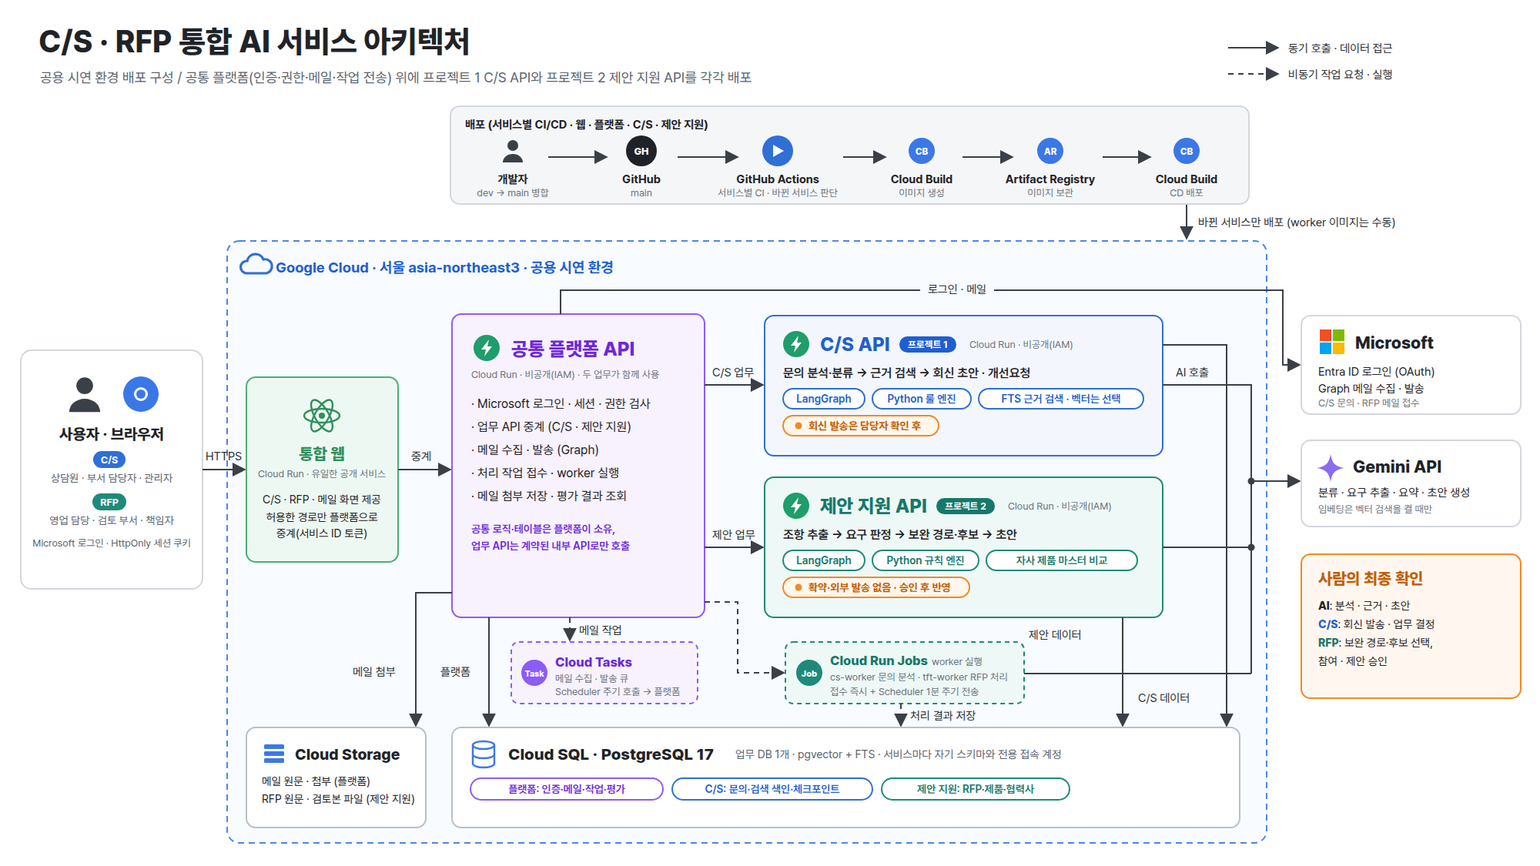
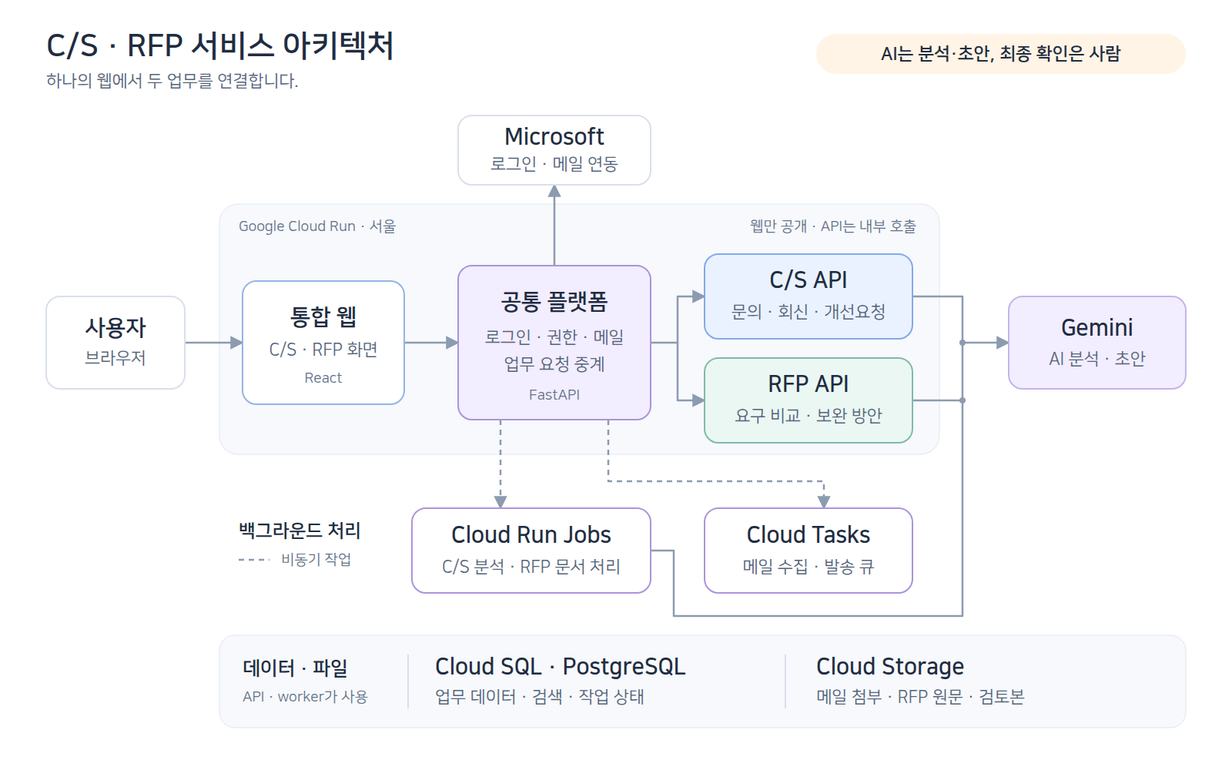
[KAN-258] 아키텍처 그림을 핵심 서비스 흐름 중심으로 간소화

diff --git a/docs/assets/readme/architecture.html b/docs/assets/readme/architecture.html
@@ -2,275 +2,102 @@
 <html lang="ko">
 <head>
 <meta charset="utf-8">
-<title>서비스 아키텍처</title>
-<!-- README의 architecture.png 원본. 고친 뒤 Playwright로 2000×1125 화면을 찍어 PNG를 다시 만든다. -->
-<link rel="stylesheet" href="https://cdn.jsdelivr.net/gh/orioncactus/pretendard@v1.3.9/dist/web/variable/pretendardvariable.min.css">
+<title>C/S · RFP 서비스 아키텍처</title>
+<!-- README용 PNG 원본. 브라우저에서 1600×1000, 배율 1로 캡처한다. 외부 폰트·리소스 없이 렌더링한다. -->
 <style>
-  html, body { margin: 0; background: #fff; }
-  svg { display: block; font-family: "Pretendard Variable", Pretendard, "Noto Sans KR", "Apple SD Gothic Neo", sans-serif; }
-  .t { fill: #1f2328; }
-  .m { fill: #5b6470; }
-  .s { fill: #6b7380; font-size: 13px; }
-  .lbl { fill: #2b3036; font-size: 15px; }
-  .edge { stroke: #3b4048; stroke-width: 2; fill: none; }
-  .dash { stroke-dasharray: 7 6; }
-  .chip { fill: #fff; stroke-width: 2; }
-  .chiptext { font-size: 14px; font-weight: 600; text-anchor: middle; }
+  html, body { margin: 0; width: 1600px; height: 1000px; background: #fff; }
+  svg { display: block; font-family: "NanumSquare", "Noto Sans KR", sans-serif; }
+  text { fill: #202c40; }
+  .heading { font-size: 29px; font-weight: 800; }
+  .detail { font-size: 22px; fill: #54647a; }
+  .small { font-size: 19px; fill: #627188; }
+  .edge { fill: none; stroke: #8c9bb0; stroke-width: 2.5; stroke-linejoin: round; }
+  .async { stroke-dasharray: 7 6; }
 </style>
 </head>
 <body>
-<svg width="2000" height="1125" viewBox="0 0 2000 1125" xmlns="http://www.w3.org/2000/svg">
+<svg width="1600" height="1000" viewBox="0 0 1600 1000" xmlns="http://www.w3.org/2000/svg" role="img" aria-labelledby="title description">
+  <title id="title">C/S · RFP 서비스 아키텍처</title>
+  <desc id="description">사용자는 공개된 통합 웹을 통해 공통 플랫폼에 접근한다. 플랫폼은 로그인과 메일을 담당하고 C/S와 RFP API로 요청을 중계한다. 긴 작업은 Cloud Run Jobs에서 처리한다. 업무 API와 worker는 Gemini를 호출하며, API와 worker는 데이터와 파일 저장소를 사용한다. AI가 준비한 결과는 사람이 최종 확인한다.</desc>
   <defs>
-    <marker id="a" viewBox="0 0 10 10" refX="9" refY="5" markerWidth="9" markerHeight="9" orient="auto-start-reverse">
-      <path d="M0 0 L10 5 L0 10 z" fill="#3b4048"/>
-    </marker>
-    <g id="run">
-      <circle r="17" fill="#1f9d6b"/>
-      <path d="M3 -11 L-7 2 L-1 2 L-3 11 L7 -2 L1 -2 Z" fill="#fff"/>
-    </g>
-    <g id="person">
-      <circle cy="-9" r="7" fill="#3b4048"/>
-      <path d="M-13 13 a13 11 0 0 1 26 0 z" fill="#3b4048"/>
-    </g>
+    <marker id="arrow" viewBox="0 0 10 10" refX="9" refY="5" markerWidth="7" markerHeight="7" orient="auto-start-reverse"><path d="M0 0 L10 5 L0 10 Z" fill="#8c9bb0"/></marker>
   </defs>
 
-  <!-- 제목 -->
-  <text x="50" y="68" class="t" font-size="40" font-weight="800">C/S · RFP 통합 AI 서비스 아키텍처</text>
-  <text x="52" y="107" class="m" font-size="18">공용 시연 환경 배포 구성 / 공통 플랫폼(인증·권한·메일·작업 전송) 위에 프로젝트 1 C/S API와 프로젝트 2 제안 지원 API를 각각 배포</text>
+  <text x="60" y="72" font-size="40" font-weight="800">C/S · RFP 서비스 아키텍처</text>
+  <text x="60" y="112" class="detail">하나의 웹에서 두 업무를 연결합니다.</text>
+  <rect x="1060" y="44" width="480" height="52" rx="26" fill="#fff4e5"/>
+  <text x="1300" y="77" text-anchor="middle" font-size="23" font-weight="700" fill="#9b5a12">AI는 분석·초안, 최종 확인은 사람</text>
 
-  <!-- 범례 -->
-  <line x1="1595" y1="62" x2="1660" y2="62" class="edge" marker-end="url(#a)"/>
-  <text x="1673" y="68" class="lbl">동기 호출 · 데이터 접근</text>
-  <line x1="1595" y1="96" x2="1660" y2="96" class="edge dash" marker-end="url(#a)"/>
-  <text x="1673" y="102" class="lbl">비동기 작업 요청 · 실행</text>
+  <!-- 서비스 경계: 통합 웹만 공개, 세 API는 내부 호출 -->
+  <rect x="285" y="265" width="935" height="325" rx="24" fill="#f7f9fc" stroke="#e0e6ef"/>
+  <text x="310" y="300" class="small">Google Cloud Run · 서울</text>
+  <text x="1190" y="300" text-anchor="end" class="small">웹만 공개 · API는 내부 호출</text>
 
-  <!-- CI/CD -->
-  <rect x="585" y="138" width="1037" height="127" rx="12" fill="#f5f6f8" stroke="#d3d7dd" stroke-width="2"/>
-  <text x="604" y="167" font-size="15" font-weight="700" class="t">배포 (서비스별 CI/CD · 웹 · 플랫폼 · C/S · 제안 지원)</text>
-  <g transform="translate(666,198)"><use href="#person"/></g>
-  <text x="666" y="238" text-anchor="middle" font-size="15" font-weight="700" class="t">개발자</text>
-  <text x="666" y="255" text-anchor="middle" class="s">dev → main 병합</text>
-  <line x1="712" y1="204" x2="788" y2="204" class="edge" marker-end="url(#a)"/>
-  <g transform="translate(833,196)"><circle r="20" fill="#1f2328"/><text y="5" text-anchor="middle" font-size="13" font-weight="800" fill="#fff">GH</text></g>
-  <text x="833" y="238" text-anchor="middle" font-size="15" font-weight="700" class="t">GitHub</text>
-  <text x="833" y="255" text-anchor="middle" class="s">main</text>
-  <line x1="880" y1="204" x2="958" y2="204" class="edge" marker-end="url(#a)"/>
-  <g transform="translate(1010,196)"><circle r="20" fill="#2f6fd6"/><path d="M-6 -8 L8 0 L-6 8 Z" fill="#fff"/></g>
-  <text x="1010" y="238" text-anchor="middle" font-size="15" font-weight="700" class="t">GitHub Actions</text>
-  <text x="1010" y="255" text-anchor="middle" class="s">서비스별 CI · 바뀐 서비스 판단</text>
-  <line x1="1095" y1="204" x2="1150" y2="204" class="edge" marker-end="url(#a)"/>
-  <g transform="translate(1197,196)"><circle r="17" fill="#3b78e7"/><text y="5" text-anchor="middle" font-size="12" font-weight="800" fill="#fff">CB</text></g>
-  <text x="1197" y="238" text-anchor="middle" font-size="15" font-weight="700" class="t">Cloud Build</text>
-  <text x="1197" y="255" text-anchor="middle" class="s">이미지 생성</text>
-  <line x1="1250" y1="204" x2="1315" y2="204" class="edge" marker-end="url(#a)"/>
-  <g transform="translate(1364,196)"><circle r="17" fill="#3b78e7"/><text y="5" text-anchor="middle" font-size="12" font-weight="800" fill="#fff">AR</text></g>
-  <text x="1364" y="238" text-anchor="middle" font-size="15" font-weight="700" class="t">Artifact Registry</text>
-  <text x="1364" y="255" text-anchor="middle" class="s">이미지 보관</text>
-  <line x1="1432" y1="204" x2="1494" y2="204" class="edge" marker-end="url(#a)"/>
-  <g transform="translate(1541,196)"><circle r="17" fill="#3b78e7"/><text y="5" text-anchor="middle" font-size="12" font-weight="800" fill="#fff">CB</text></g>
-  <text x="1541" y="238" text-anchor="middle" font-size="15" font-weight="700" class="t">Cloud Build</text>
-  <text x="1541" y="255" text-anchor="middle" class="s">CD 배포</text>
-  <line x1="1541" y1="266" x2="1541" y2="310" class="edge" marker-end="url(#a)"/>
-  <text x="1556" y="294" class="lbl">바뀐 서비스만 배포 (worker 이미지는 수동)</text>
+  <!-- 연결선을 먼저 그려 상자와 글자 위로 지나가지 않도록 한다. -->
+  <path d="M240 445 H315" class="edge" marker-end="url(#arrow)"/>
+  <path d="M525 445 H595" class="edge" marker-end="url(#arrow)"/>
+  <path d="M845 445 H880 V385 H915" class="edge" marker-end="url(#arrow)"/>
+  <path d="M880 445 V520 H915" class="edge" marker-end="url(#arrow)"/>
+  <path d="M720 345 V240" class="edge" marker-end="url(#arrow)"/>
+  <path d="M650 545 V660" class="edge async" marker-end="url(#arrow)"/>
+  <path d="M790 545 V625 H1070 V660" class="edge async" marker-end="url(#arrow)"/>
+  <path d="M1185 385 H1250 V445 H1310" class="edge" marker-end="url(#arrow)"/>
+  <path d="M1185 520 H1250 V445" class="edge"/>
+  <path d="M845 715 H875 V800 H1250 V520" class="edge"/>
+  <circle cx="1250" cy="445" r="4" fill="#8c9bb0"/>
+  <circle cx="1250" cy="520" r="4" fill="#8c9bb0"/>
 
-  <!-- Google Cloud 영역 -->
-  <rect x="295" y="313" width="1350" height="782" rx="16" fill="#f8fbff" stroke="#4a86e8" stroke-width="2" stroke-dasharray="8 6"/>
-  <g transform="translate(332,347)">
-    <path d="M-12 8 a8 8 0 0 1 1 -16 a11 11 0 0 1 21 -2 a8 8 0 0 1 4 18 z" fill="none" stroke="#2f6fd6" stroke-width="3.2"/>
-  </g>
-  <text x="358" y="354" font-size="19" font-weight="700" fill="#1f5fcf">Google Cloud · 서울 asia-northeast3 · 공용 시연 환경</text>
+  <rect x="60" y="385" width="180" height="120" rx="18" fill="#fff" stroke="#d9e0ea" stroke-width="2"/>
+  <text x="150" y="435" text-anchor="middle" class="heading">사용자</text>
+  <text x="150" y="472" text-anchor="middle" class="detail">브라우저</text>
 
-  <!-- 사용자 -->
-  <rect x="27" y="455" width="236" height="310" rx="14" fill="#fff" stroke="#d3d7dd" stroke-width="2"/>
-  <g transform="translate(110,515) scale(1.55)"><use href="#person"/></g>
-  <g transform="translate(183,512)"><circle r="23" fill="#3b78e7"/><circle r="9" fill="#fff"/><circle r="6" fill="#3b78e7"/></g>
-  <text x="145" y="571" text-anchor="middle" font-size="20" font-weight="800" class="t">사용자 · 브라우저</text>
-  <rect x="121" y="586" width="42" height="22" rx="11" fill="#2f6fd6"/>
-  <text x="142" y="602" text-anchor="middle" font-size="13" font-weight="700" fill="#fff">C/S</text>
-  <text x="145" y="626" text-anchor="middle" font-size="14" class="m">상담원 · 부서 담당자 · 관리자</text>
-  <rect x="120" y="641" width="44" height="22" rx="11" fill="#1f8a7a"/>
-  <text x="142" y="657" text-anchor="middle" font-size="13" font-weight="700" fill="#fff">RFP</text>
-  <text x="145" y="681" text-anchor="middle" font-size="14" class="m">영업 담당 · 검토 부서 · 책임자</text>
-  <text x="145" y="710" text-anchor="middle" font-size="13" class="m">Microsoft 로그인 · HttpOnly 세션 쿠키</text>
+  <rect x="315" y="365" width="210" height="160" rx="18" fill="#fff" stroke="#95b4e6" stroke-width="2"/>
+  <text x="420" y="421" text-anchor="middle" class="heading">통합 웹</text>
+  <text x="420" y="461" text-anchor="middle" class="detail">C/S · RFP 화면</text>
+  <text x="420" y="497" text-anchor="middle" class="small">React</text>
 
-  <line x1="263" y1="610" x2="318" y2="610" class="edge" marker-end="url(#a)"/>
-  <text x="267" y="598" class="lbl" font-size="14">HTTPS</text>
+  <rect x="595" y="345" width="250" height="200" rx="18" fill="#f2edff" stroke="#ab94db" stroke-width="2"/>
+  <text x="720" y="401" text-anchor="middle" class="heading">공통 플랫폼</text>
+  <text x="720" y="445" text-anchor="middle" class="detail">로그인 · 권한 · 메일</text>
+  <text x="720" y="480" text-anchor="middle" class="detail">업무 요청 중계</text>
+  <text x="720" y="519" text-anchor="middle" class="small">FastAPI</text>
 
-  <!-- 통합 웹 -->
-  <rect x="320" y="490" width="197" height="240" rx="12" fill="#eef8f2" stroke="#4caf73" stroke-width="2"/>
-  <g transform="translate(418,540)" fill="none" stroke="#2f8f5b" stroke-width="2.4">
-    <ellipse rx="23" ry="9"/><ellipse rx="23" ry="9" transform="rotate(60)"/><ellipse rx="23" ry="9" transform="rotate(120)"/>
-    <circle r="4" fill="#2f8f5b" stroke="none"/>
-  </g>
-  <text x="418" y="597" text-anchor="middle" font-size="21" font-weight="800" fill="#2f8f5b">통합 웹</text>
-  <text x="418" y="620" text-anchor="middle" class="s">Cloud Run · 유일한 공개 서비스</text>
-  <text x="418" y="654" text-anchor="middle" font-size="14.5" class="t">C/S · RFP · 메일 화면 제공</text>
-  <text x="418" y="677" text-anchor="middle" font-size="14.5" class="t">허용한 경로만 플랫폼으로</text>
-  <text x="418" y="698" text-anchor="middle" font-size="14.5" class="t">중계(서비스 ID 토큰)</text>
+  <rect x="915" y="330" width="270" height="110" rx="18" fill="#eaf2ff" stroke="#83a9e9" stroke-width="2"/>
+  <text x="1050" y="373" text-anchor="middle" class="heading">C/S API</text>
+  <text x="1050" y="412" text-anchor="middle" class="detail">문의 · 회신 · 개선요청</text>
+  <rect x="915" y="465" width="270" height="110" rx="18" fill="#eaf7f3" stroke="#81b9aa" stroke-width="2"/>
+  <text x="1050" y="508" text-anchor="middle" class="heading">RFP API</text>
+  <text x="1050" y="547" text-anchor="middle" class="detail">요구 비교 · 보완 방안</text>
 
-  <line x1="517" y1="610" x2="585" y2="610" class="edge" marker-end="url(#a)"/>
-  <text x="534" y="598" class="lbl">중계</text>
+  <!-- 외부 연동은 서비스당 역할 한 줄로 요약 -->
+  <rect x="595" y="150" width="250" height="90" rx="18" fill="#fff" stroke="#d9e0ea" stroke-width="2"/>
+  <text x="720" y="187" text-anchor="middle" class="heading">Microsoft</text>
+  <text x="720" y="220" text-anchor="middle" class="detail">로그인 · 메일 연동</text>
+  <rect x="1310" y="385" width="230" height="120" rx="18" fill="#f2edff" stroke="#c5b4e9" stroke-width="2"/>
+  <text x="1425" y="435" text-anchor="middle" class="heading">Gemini</text>
+  <text x="1425" y="473" text-anchor="middle" class="detail">AI 분석 · 초안</text>
 
-  <!-- 공통 플랫폼 API -->
-  <rect x="587" y="408" width="328" height="394" rx="12" fill="#f7f2fd" stroke="#8b5cf6" stroke-width="2"/>
-  <g transform="translate(632,452)"><use href="#run"/></g>
-  <text x="664" y="462" font-size="25" font-weight="800" fill="#6d28d9">공통 플랫폼 API</text>
-  <text x="612" y="491" class="s" font-size="14">Cloud Run · 비공개(IAM) · 두 업무가 함께 사용</text>
-  <g font-size="16" class="t">
-    <text x="612" y="530">· Microsoft 로그인 · 세션 · 권한 검사</text>
-    <text x="612" y="560">· 업무 API 중계 (C/S · 제안 지원)</text>
-    <text x="612" y="590">· 메일 수집 · 발송 (Graph)</text>
-    <text x="612" y="620">· 처리 작업 접수 · worker 실행</text>
-    <text x="612" y="650">· 메일 첨부 저장 · 평가 결과 조회</text>
-  </g>
-  <text x="612" y="692" font-size="14" font-weight="600" fill="#6d28d9">공통 로직·테이블은 플랫폼이 소유,</text>
-  <text x="612" y="714" font-size="14" font-weight="600" fill="#6d28d9">업무 API는 계약된 내부 API로만 호출</text>
+  <!-- 백그라운드 처리: 업무 분석과 메일 큐를 구분 -->
+  <text x="310" y="697" font-size="24" font-weight="700">백그라운드 처리</text>
+  <line x1="310" y1="727" x2="350" y2="727" class="edge async"/>
+  <text x="365" y="733" class="small">비동기 작업</text>
+  <rect x="535" y="660" width="310" height="110" rx="18" fill="#fff" stroke="#ab94db" stroke-width="2"/>
+  <text x="690" y="704" text-anchor="middle" class="heading">Cloud Run Jobs</text>
+  <text x="690" y="743" text-anchor="middle" class="detail">C/S 분석 · RFP 문서 처리</text>
+  <rect x="915" y="660" width="270" height="110" rx="18" fill="#fff" stroke="#ab94db" stroke-width="2"/>
+  <text x="1050" y="704" text-anchor="middle" class="heading">Cloud Tasks</text>
+  <text x="1050" y="743" text-anchor="middle" class="detail">메일 수집 · 발송 큐</text>
 
-  <!-- 플랫폼 → 업무 API -->
-  <line x1="915" y1="500" x2="991" y2="500" class="edge" marker-end="url(#a)"/>
-  <text x="925" y="489" class="lbl">C/S 업무</text>
-  <line x1="915" y1="711" x2="991" y2="711" class="edge" marker-end="url(#a)"/>
-  <text x="925" y="700" class="lbl">제안 업무</text>
-
-  <!-- 로그인 · 메일 (플랫폼 → Microsoft) -->
-  <polyline points="728,408 728,377 1666,377 1666,474 1688,474" class="edge" marker-end="url(#a)"/>
-  <rect x="1195" y="363" width="96" height="24" fill="#f8fbff"/>
-  <text x="1243" y="381" text-anchor="middle" class="lbl">로그인 · 메일</text>
-
-  <!-- C/S API -->
-  <rect x="993" y="410" width="517" height="182" rx="12" fill="#f3f7fd" stroke="#2f6fd6" stroke-width="2"/>
-  <g transform="translate(1034,447)"><use href="#run"/></g>
-  <text x="1065" y="456" font-size="25" font-weight="800" fill="#1f5fcf">C/S API</text>
-  <rect x="1168" y="437" width="74" height="21" rx="10.5" fill="#1f5fcf"/>
-  <text x="1205" y="452" text-anchor="middle" font-size="12.5" font-weight="700" fill="#fff">프로젝트 1</text>
-  <text x="1259" y="452" class="s" font-size="14">Cloud Run · 비공개(IAM)</text>
-  <text x="1017" y="490" font-size="16" font-weight="600" class="t">문의 분석·분류 → 근거 검색 → 회신 초안 · 개선요청</text>
-  <g>
-    <rect x="1017" y="505" width="106" height="26" rx="13" class="chip" stroke="#2f6fd6"/>
-    <text x="1070" y="523" class="chiptext" fill="#1f5fcf">LangGraph</text>
-    <rect x="1133" y="505" width="128" height="26" rx="13" class="chip" stroke="#2f6fd6"/>
-    <text x="1197" y="523" class="chiptext" fill="#1f5fcf">Python 룰 엔진</text>
-    <rect x="1271" y="505" width="214" height="26" rx="13" class="chip" stroke="#2f6fd6"/>
-    <text x="1378" y="523" class="chiptext" fill="#1f5fcf">FTS 근거 검색 · 벡터는 선택</text>
-  </g>
-  <rect x="1017" y="540" width="202" height="26" rx="13" fill="#fff6ec" stroke="#f08a24" stroke-width="2"/>
-  <circle cx="1037" cy="553" r="4.5" fill="#f08a24"/>
-  <text x="1050" y="558" font-size="14" font-weight="700" fill="#c25e00">회신 발송은 담당자 확인 후</text>
-
-  <!-- 제안 지원 API -->
-  <rect x="993" y="620" width="517" height="182" rx="12" fill="#eef8f6" stroke="#1f8a7a" stroke-width="2"/>
-  <g transform="translate(1034,657)"><use href="#run"/></g>
-  <text x="1065" y="666" font-size="25" font-weight="800" fill="#16786a">제안 지원 API</text>
-  <rect x="1216" y="647" width="76" height="21" rx="10.5" fill="#16786a"/>
-  <text x="1254" y="662" text-anchor="middle" font-size="12.5" font-weight="700" fill="#fff">프로젝트 2</text>
-  <text x="1309" y="662" class="s" font-size="14">Cloud Run · 비공개(IAM)</text>
-  <text x="1017" y="700" font-size="16" font-weight="600" class="t">조항 추출 → 요구 판정 → 보완 경로·후보 → 초안</text>
-  <g>
-    <rect x="1017" y="715" width="106" height="26" rx="13" class="chip" stroke="#1f8a7a"/>
-    <text x="1070" y="733" class="chiptext" fill="#16786a">LangGraph</text>
-    <rect x="1133" y="715" width="138" height="26" rx="13" class="chip" stroke="#1f8a7a"/>
-    <text x="1202" y="733" class="chiptext" fill="#16786a">Python 규칙 엔진</text>
-    <rect x="1281" y="715" width="196" height="26" rx="13" class="chip" stroke="#1f8a7a"/>
-    <text x="1379" y="733" class="chiptext" fill="#16786a">자사 제품 마스터 비교</text>
-  </g>
-  <rect x="1017" y="750" width="242" height="26" rx="13" fill="#fff6ec" stroke="#f08a24" stroke-width="2"/>
-  <circle cx="1037" cy="763" r="4.5" fill="#f08a24"/>
-  <text x="1050" y="768" font-size="14" font-weight="700" fill="#c25e00">확약·외부 발송 없음 · 승인 후 반영</text>
-
-  <!-- 데이터 선: 업무 API → Cloud SQL -->
-  <polyline points="1510,448 1593,448 1593,943" class="edge" marker-end="url(#a)"/>
-  <text x="1478" y="912" class="lbl">C/S 데이터</text>
-  <line x1="1458" y1="802" x2="1458" y2="943" class="edge" marker-end="url(#a)"/>
-  <text x="1336" y="830" class="lbl">제안 데이터</text>
-
-  <!-- AI 호출 묶음선 -->
-  <polyline points="1510,500 1625,500 1625,875" class="edge"/>
-  <line x1="1510" y1="711" x2="1625" y2="711" class="edge"/>
-  <line x1="1625" y1="625" x2="1688" y2="625" class="edge" marker-end="url(#a)"/>
-  <circle cx="1625" cy="625" r="4.5" fill="#3b4048"/>
-  <circle cx="1625" cy="711" r="4.5" fill="#3b4048"/>
-  <text x="1527" y="489" class="lbl">AI 호출</text>
-
-  <!-- 파일: 플랫폼 → Cloud Storage -->
-  <polyline points="587,770 540,770 540,943" class="edge" marker-end="url(#a)"/>
-  <text x="458" y="878" class="lbl">메일 첨부</text>
-  <!-- 플랫폼 → Cloud SQL -->
-  <line x1="635" y1="802" x2="635" y2="943" class="edge" marker-end="url(#a)"/>
-  <text x="572" y="878" class="lbl">플랫폼</text>
-
-  <!-- Cloud Tasks: 메일 작업 -->
-  <line x1="740" y1="802" x2="740" y2="832" class="edge dash" marker-end="url(#a)"/>
-  <text x="752" y="824" class="lbl">메일 작업</text>
-  <rect x="664" y="834" width="242" height="80" rx="10" fill="#f7f2fd" stroke="#8b5cf6" stroke-width="2" stroke-dasharray="6 5"/>
-  <g transform="translate(694,874)"><circle r="17" fill="#8b5cf6"/><text y="4.5" text-anchor="middle" font-size="11" font-weight="800" fill="#fff">Task</text></g>
-  <text x="721" y="866" font-size="17" font-weight="800" fill="#6d28d9">Cloud Tasks</text>
-  <text x="721" y="886" class="s">메일 수집 · 발송 큐</text>
-  <text x="721" y="903" class="s">Scheduler 주기 호출 → 플랫폼</text>
-
-  <!-- 플랫폼 → Cloud Run Jobs (worker 실행) -->
-  <polyline points="915,782 958,782 958,874 1018,874" class="edge dash" marker-end="url(#a)"/>
-  <rect x="1020" y="834" width="310" height="80" rx="10" fill="#eef8f6" stroke="#1f8a7a" stroke-width="2" stroke-dasharray="6 5"/>
-  <g transform="translate(1051,874)"><circle r="17" fill="#1f8a7a"/><text y="4.5" text-anchor="middle" font-size="11.5" font-weight="800" fill="#fff">Job</text></g>
-  <text x="1078" y="864" font-size="17" font-weight="800" fill="#16786a">Cloud Run Jobs</text>
-  <text x="1210" y="864" class="s">worker 실행</text>
-  <text x="1078" y="884" class="s">cs-worker 문의 분석 · tft-worker RFP 처리</text>
-  <text x="1078" y="903" class="s">접수 즉시 + Scheduler 1분 주기 전송</text>
-  <!-- worker → Cloud SQL -->
-  <line x1="1170" y1="914" x2="1170" y2="943" class="edge dash" marker-end="url(#a)"/>
-  <text x="1182" y="935" class="lbl">처리 결과 저장</text>
-  <!-- worker → AI 호출 묶음선(데이터 선을 건너간다) -->
-  <line x1="1330" y1="875" x2="1625" y2="875" class="edge"/>
-
-  <!-- Cloud Storage -->
-  <rect x="320" y="945" width="233" height="130" rx="12" fill="#fff" stroke="#b9bfc8" stroke-width="2"/>
-  <g transform="translate(356,979)" fill="#3b78e7">
-    <rect x="-13" y="-12" width="26" height="6" rx="1.5"/><rect x="-13" y="-3" width="26" height="6" rx="1.5"/><rect x="-13" y="6" width="26" height="6" rx="1.5"/>
-  </g>
-  <text x="383" y="987" font-size="20" font-weight="800" class="t">Cloud Storage</text>
-  <text x="340" y="1020" font-size="14.5" class="t">메일 원문 · 첨부 (플랫폼)</text>
-  <text x="340" y="1043" font-size="14.5" class="t">RFP 원문 · 검토본 파일 (제안 지원)</text>
-
-  <!-- Cloud SQL -->
-  <rect x="587" y="945" width="1023" height="130" rx="12" fill="#fff" stroke="#b9bfc8" stroke-width="2"/>
-  <g transform="translate(628,980)" fill="none" stroke="#3b78e7" stroke-width="2.4">
-    <ellipse cy="-12" rx="14" ry="5"/><path d="M-14 -12 v24 a14 5 0 0 0 28 0 v-24"/><path d="M-14 0 a14 5 0 0 0 28 0"/>
-  </g>
-  <text x="660" y="987" font-size="21" font-weight="800" class="t">Cloud SQL · PostgreSQL 17</text>
-  <text x="955" y="985" class="m" font-size="14.5">업무 DB 1개 · pgvector + FTS · 서비스마다 자기 스키마와 전용 접속 계정</text>
-  <rect x="611" y="1011" width="250" height="28" rx="14" class="chip" stroke="#8b5cf6"/>
-  <text x="736" y="1030" class="chiptext" fill="#6d28d9">플랫폼: 인증·메일·작업·평가</text>
-  <rect x="873" y="1011" width="260" height="28" rx="14" class="chip" stroke="#2f6fd6"/>
-  <text x="1003" y="1030" class="chiptext" fill="#1f5fcf">C/S: 문의·검색 색인·체크포인트</text>
-  <rect x="1145" y="1011" width="244" height="28" rx="14" class="chip" stroke="#1f8a7a"/>
-  <text x="1267" y="1030" class="chiptext" fill="#16786a">제안 지원: RFP·제품·협력사</text>
-
-  <!-- Microsoft -->
-  <rect x="1690" y="410" width="285" height="128" rx="12" fill="#fff" stroke="#d3d7dd" stroke-width="2"/>
-  <g transform="translate(1714,428)">
-    <rect width="15" height="15" fill="#f25022"/><rect x="17" width="15" height="15" fill="#7fba00"/>
-    <rect y="17" width="15" height="15" fill="#00a4ef"/><rect x="17" y="17" width="15" height="15" fill="#ffb900"/>
-  </g>
-  <text x="1760" y="453" font-size="22" font-weight="800" class="t">Microsoft</text>
-  <text x="1712" y="488" font-size="15" class="t">Entra ID 로그인 (OAuth)</text>
-  <text x="1712" y="510" font-size="15" class="t">Graph 메일 수집 · 발송</text>
-  <text x="1712" y="528" class="s">C/S 문의 · RFP 메일 접수</text>
-
-  <!-- Gemini -->
-  <rect x="1690" y="572" width="285" height="112" rx="12" fill="#fff" stroke="#d3d7dd" stroke-width="2"/>
-  <path d="M1728 590 C1730 602 1734 606 1746 608 C1734 610 1730 614 1728 626 C1726 614 1722 610 1710 608 C1722 606 1726 602 1728 590 Z" fill="#8b6cf0"/>
-  <text x="1757" y="614" font-size="22" font-weight="800" class="t">Gemini API</text>
-  <text x="1712" y="645" font-size="15" class="t">분류 · 요구 추출 · 요약 · 초안 생성</text>
-  <text x="1712" y="666" class="s">임베딩은 벡터 검색을 켤 때만</text>
-
-  <!-- 사람의 최종 확인 -->
-  <rect x="1690" y="720" width="285" height="187" rx="12" fill="#fff7ef" stroke="#f08a24" stroke-width="2"/>
-  <text x="1712" y="759" font-size="21" font-weight="800" fill="#c25e00">사람의 최종 확인</text>
-  <g font-size="14.5" class="t">
-    <text x="1712" y="792"><tspan font-weight="800">AI</tspan>: 분석 · 근거 · 초안</text>
-    <text x="1712" y="816"><tspan font-weight="800" fill="#1f5fcf">C/S</tspan>: 회신 발송 · 업무 결정</text>
-    <text x="1712" y="840"><tspan font-weight="800" fill="#16786a">RFP</tspan>: 보완 경로·후보 선택,</text>
-    <text x="1712" y="864">참여 · 제안 승인</text>
-  </g>
+  <!-- 공통 데이터 계층. 세부 접근선은 생략하고 사용 주체를 명시한다. -->
+  <rect x="285" y="825" width="1255" height="120" rx="20" fill="#f7f9fc" stroke="#e0e6ef"/>
+  <text x="315" y="876" font-size="25" font-weight="800">데이터 · 파일</text>
+  <text x="315" y="911" class="small">API · worker가 사용</text>
+  <line x1="530" y1="850" x2="530" y2="920" stroke="#d9e0ea" stroke-width="2"/>
+  <text x="565" y="875" class="heading">Cloud SQL · PostgreSQL</text>
+  <text x="565" y="912" class="detail">업무 데이터 · 검색 · 작업 상태</text>
+  <line x1="1020" y1="850" x2="1020" y2="920" stroke="#d9e0ea" stroke-width="2"/>
+  <text x="1060" y="875" class="heading">Cloud Storage</text>
+  <text x="1060" y="912" class="detail">메일 첨부 · RFP 원문 · 검토본</text>
 </svg>
 </body>
 </html>
